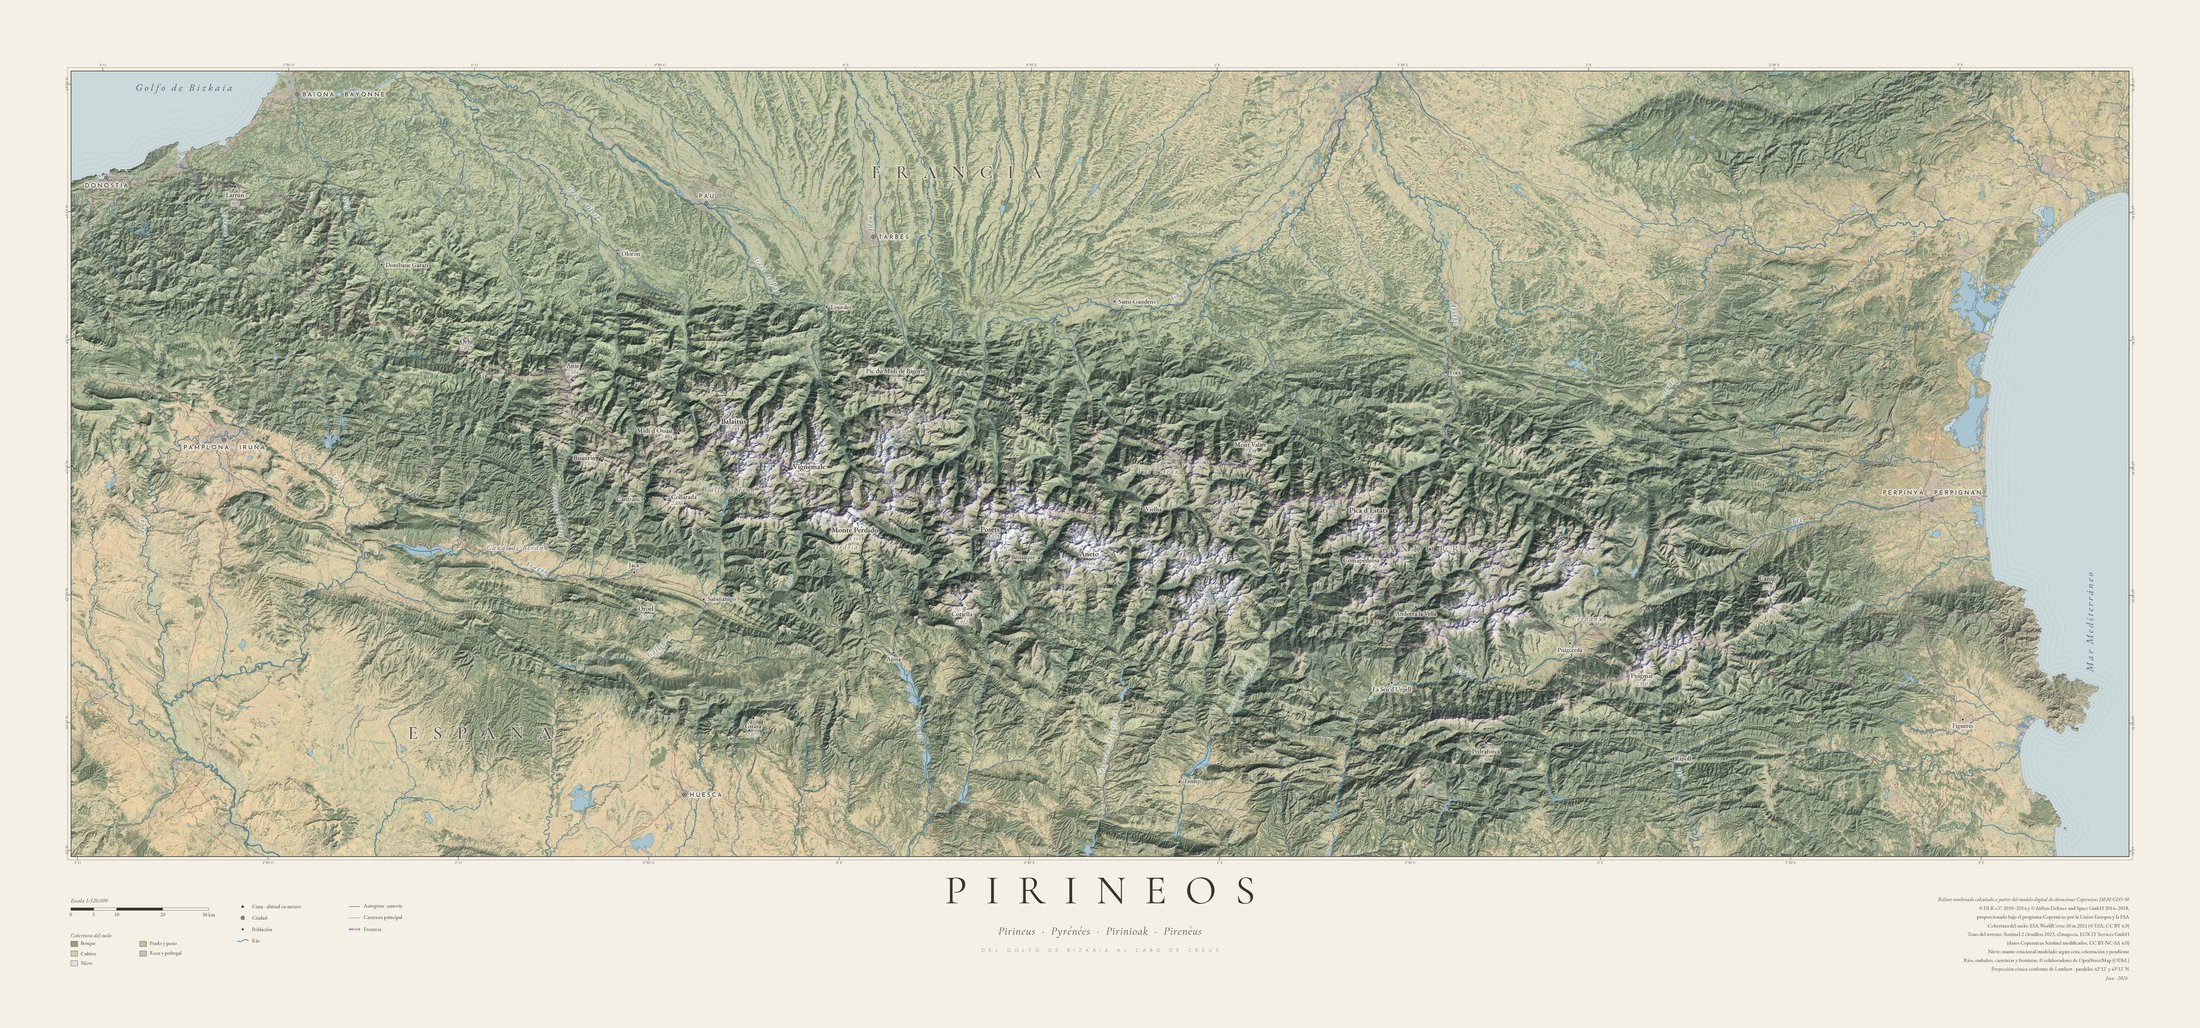
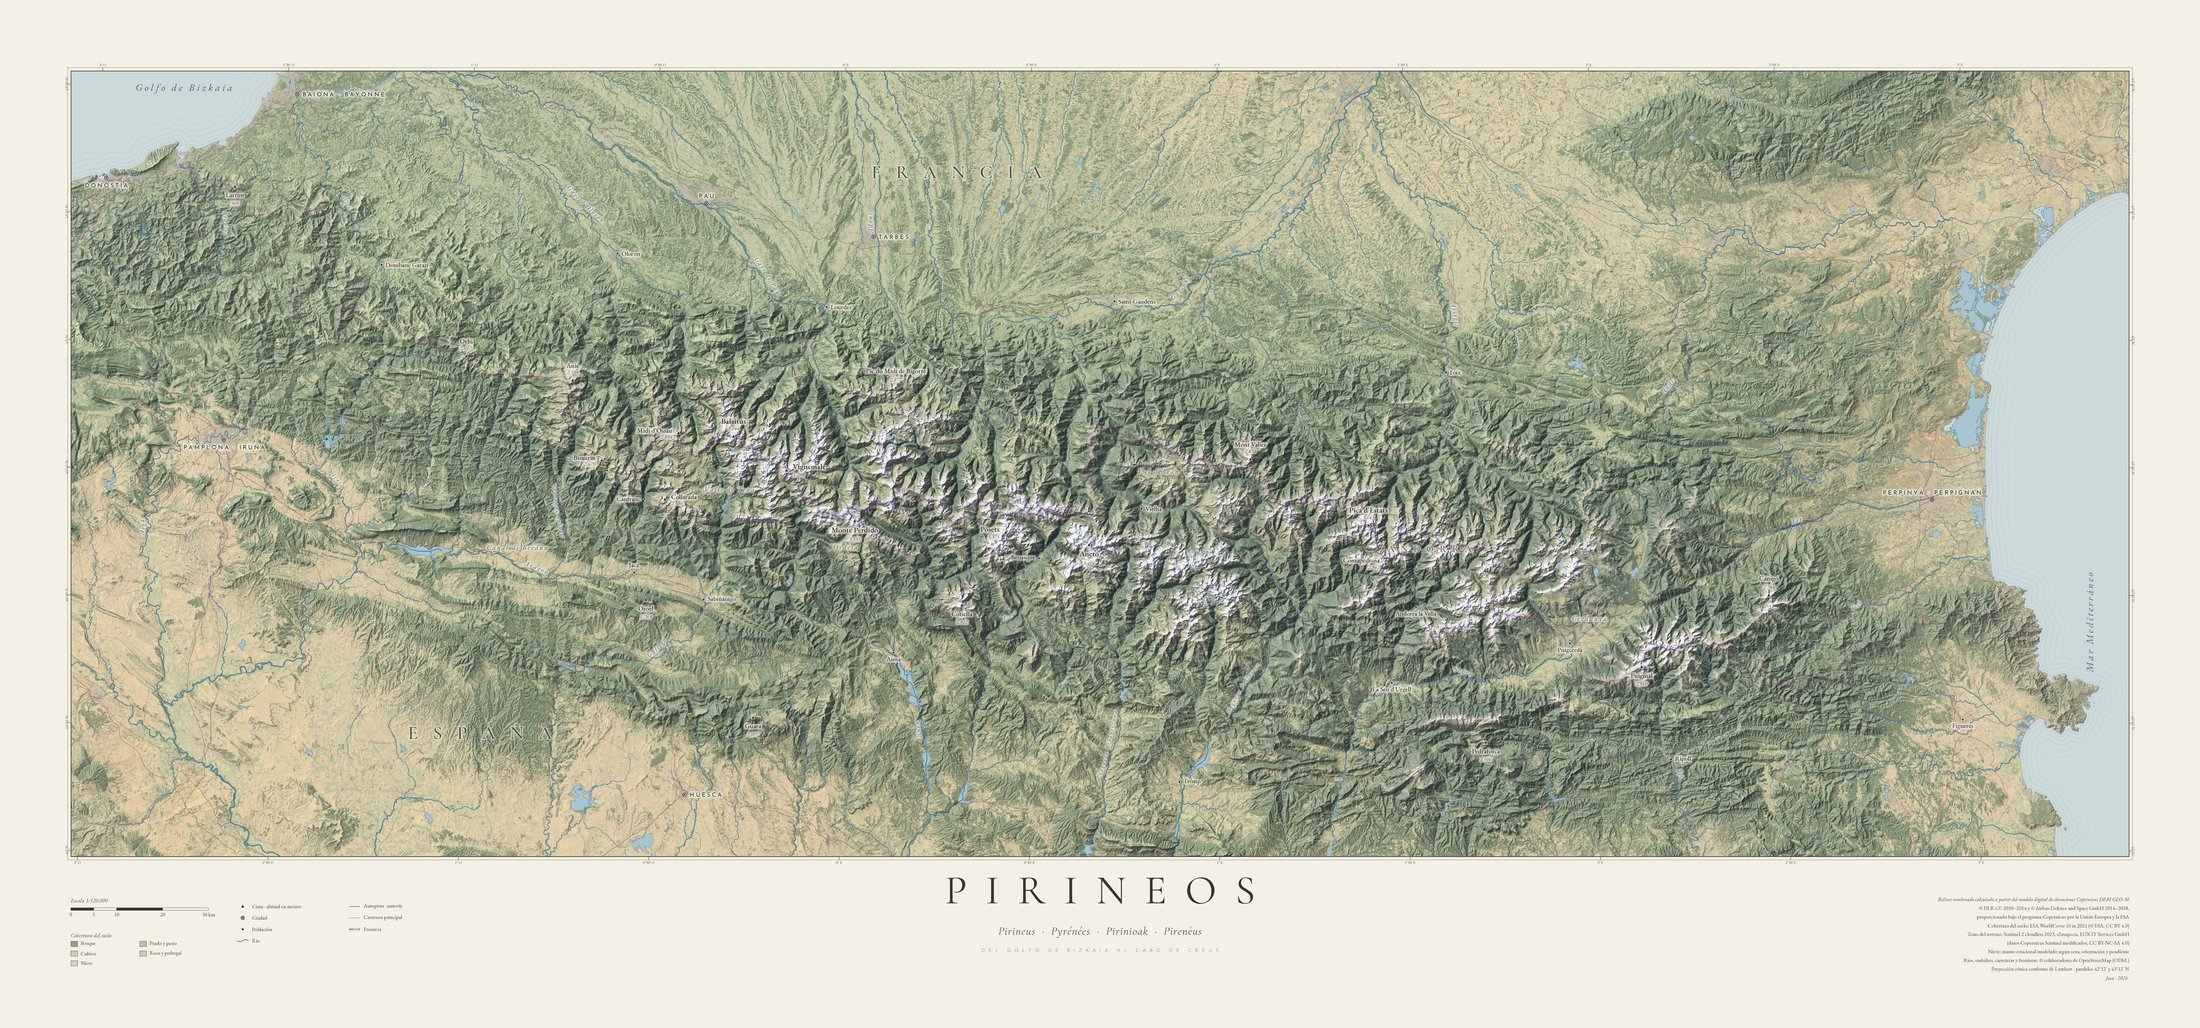
Mapa Pirineos: corrige la dirección de la luz del sombreado
La orientación de las laderas tenía intercambiados los términos de arctan2,
de modo que la luz venía del SE en lugar del NO y el relieve se percibía
invertido (valles en resalte, cumbres hundidas).

Claude-Session: https://claude.ai/code/session_01W6ykbCbG3CcBpb4fa33bjx

diff --git a/mapa-pirineo/02_render_relief.py b/mapa-pirineo/02_render_relief.py
@@ -62,7 +62,7 @@ np.save(f"work/mask_sea_f{F}.npy", sea)
 def hillshade(z, az, alt):
     gy, gx = np.gradient(z * Z, pix)
     slope = np.arctan(np.hypot(gx, gy))
-    aspect = np.arctan2(-gx, gy)
+    aspect = np.arctan2(gy, -gx)          # gy = dz/dfila (hacia el sur), gx = dz/dcolumna (hacia el este)
     azr, altr = np.radians(360 - az + 90), np.radians(alt)
     return (np.sin(altr) * np.cos(slope) +
             np.cos(altr) * np.sin(slope) * np.cos(azr - aspect)).clip(0, 1).astype(np.float32)
